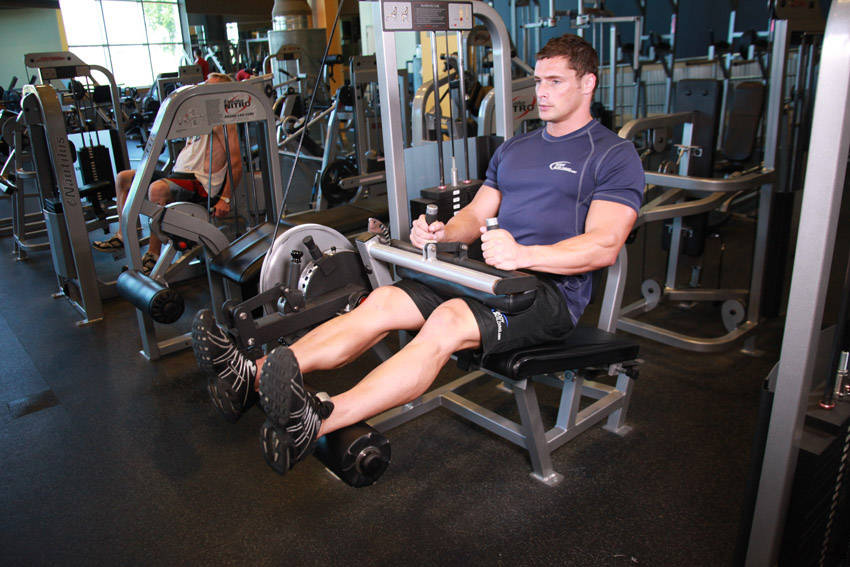
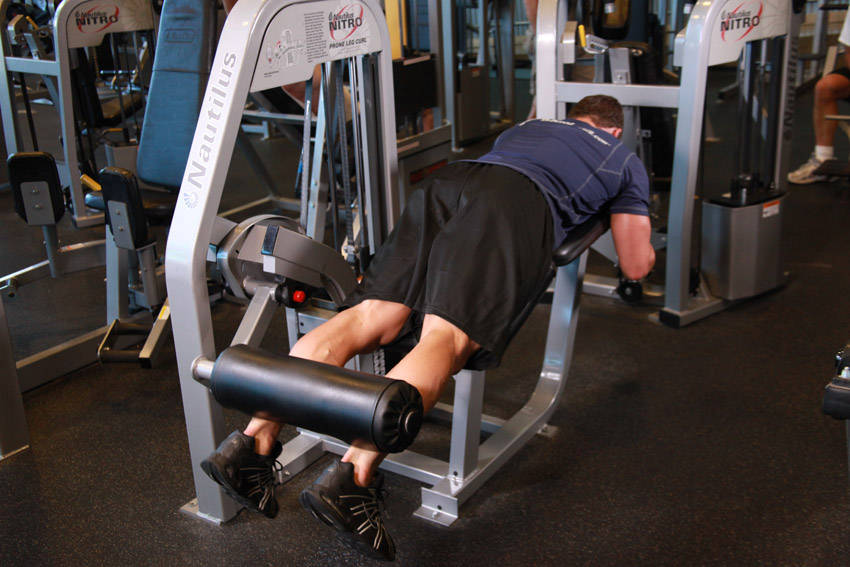
Leg curl is the lying leg curl and is back in the plans

diff --git a/scripts/more-exercises.py b/scripts/more-exercises.py
@@ -118,11 +118,6 @@ EX = [
      ["Lift your heels as high as you can.", "Pause at the top for a beat.", "Lower slowly until you feel a stretch."],
      ["Bouncing at the bottom.", "Bending your knees to push.", "Only doing a short range."],
      "Calf raise", "Standing_Calf_Raises"),
-    ("lyingcurl", "Lying leg curl", "lower", "Legs", "Machine", "weight", ["Hamstrings"], 10, 12, 2.5, 2.5,
-     ["Lie face down with the pad just above your heels.", "Line your knees up with the machine's pivot.", "Grip the handles and keep your hips pressed down."],
-     ["Curl your heels towards your glutes.", "Squeeze your hamstrings at the top.", "Lower slowly until your legs are almost straight."],
-     ["Lifting your hips off the pad.", "Jerking the weight up.", "Dropping it fast on the way down."],
-     "Dumbbell Romanian deadlift", "Lying_Leg_Curls"),
     ("cablecrunch", "Cable crunch", "core", "Core", "Cable", "weight", ["Abs"], 10, 15, 2.5, 2.5,
      ["Attach a rope to the high pulley and kneel facing the stack.", "Hold the rope beside your head.", "Sit your hips back over your heels."],
      ["Curl your ribs towards your hips.", "Breathe out as you crunch.", "Return slowly until your back is long."],

diff --git a/CLAUDE.md b/CLAUDE.md
@@ -38,7 +38,7 @@ machine stacks 2.5 or 5 kg); increments editable per exercise. Soreness 4-5 for 
 Deload suggestion around week 7 (half the sets). Check-in "Add a set" was dropped: all exercises stay at 2 sets.
 
 ## Database (supabase/migrations + supabase/seed.sql)
-- Global, read-only: `exercises` (44, with form guides and progression steps). Templates: `program_templates`,
+- Global, read-only: `exercises` (43, with form guides and progression steps). Templates: `program_templates`,
   `template_days`, `template_exercises` hold built-ins (`user_id is null`) and the user's own editable copy
   (made by `start_program()` / `clone_template()`).
 - User-owned (RLS `user_id = auth.uid()`): `program_state` (+ view `program_state_view` with derived `current_week`),
@@ -109,7 +109,7 @@ Deload suggestion around week 7 (half the sets). Check-in "Add a set" was droppe
 - Test mode (Plan > Test mode, `program_state.test_mode`, `workouts.is_test`, migration `test_mode`): Today shows a card to start ANY template day (`/workout?test=<weekday>`) and preview week 4/8/12 check-ins; test sessions are flagged and `setTestMode(false)` deletes them (checkins first, since their workout_id is set null on delete).
 - Finish: `/complete` opens as ONE huge tick (`.done-tick`, "Workout complete", stats, PBs, warm line) with Continue to the check-in; Today shows a "Workout complete" tick on done days. A skipped day (schedule override) can still be started ("Do it now") and shows a tick once done (`buildStrip` ignores the skip when the origin is completed); in a workout, finishing a skipped lift turns it into a tick (`logSet`). Lifts can be reordered from the checklist (`moveExercise`, "Change order").
 - UI pass (rings + hero numbers): Today has weekly Activity-style rings (`Rings`, `ringFraction`: sessions / sets / cardio minutes in accent / info / success) and a Resume bar while a session is open (`ResumeBar`). Workout: hero numbers (`.num-hero`) you can scrub by dragging up/down (`NumField` + `scrubSteps`, haptic tick per step), bigger rest ring that pulses in the last 5 s, a "New best" card with before -> after on a PB, horizontal swipe on the card to move between lifts. Tab bar has one sliding indicator (`.tab-ind`). First launch shows a 4-card gesture tour (`GestureTour`, `wt.tourSeen`). Not built: sound, drag-sheet physics, shared-element transitions.
-- Round of requested changes: the quick-log box (ChatBar) and its confirm card are REMOVED from the workout screen (the pure `parser.ts` stays; MCP uses it). The account-deletion UI and `deleteAccount` action are removed (the DB function stays, still refused for connectors). Library now has 44 exercises (27 added by `scripts/more-exercises.py` -> `supabase/seed-more-exercises.sql`, photos in `public/exercises`); "Seated row" is named "Low seated row"; the Seated leg curl was swapped for the Dumbbell Romanian deadlift in all plans and sorted last (it is kept because 2 logged sets reference it). Checklist: "Reorder lifts" = drag by the grip handle. In-app banners and the new-best card dismiss by swiping up (`useSwipeUp`). Progress's first card has an exercise picker sheet instead of a long chip row.
+- Round of requested changes: the quick-log box (ChatBar) and its confirm card are REMOVED from the workout screen (the pure `parser.ts` stays; MCP uses it). The account-deletion UI and `deleteAccount` action are removed (the DB function stays, still refused for connectors). Library now has 43 exercises (26 added by `scripts/more-exercises.py` -> `supabase/seed-more-exercises.sql`, photos in `public/exercises`); "Seated row" is named "Low seated row"; the leg curl is the LYING leg curl (slug `legcurl`, renamed from "Seated leg curl"; there is no seated machine) and stays in the plans; the Dumbbell Romanian deadlift is a library extra. Checklist: "Reorder lifts" = drag by the grip handle. In-app banners and the new-best card dismiss by swiping up (`useSwipeUp`). Progress's first card has an exercise picker sheet instead of a long chip row.
 - Only `--dur-*` / `--ease-*` tokens; no new colours (so no translucent bars). No animation library added.
 
 ## Build order (stop after each step for testing)
